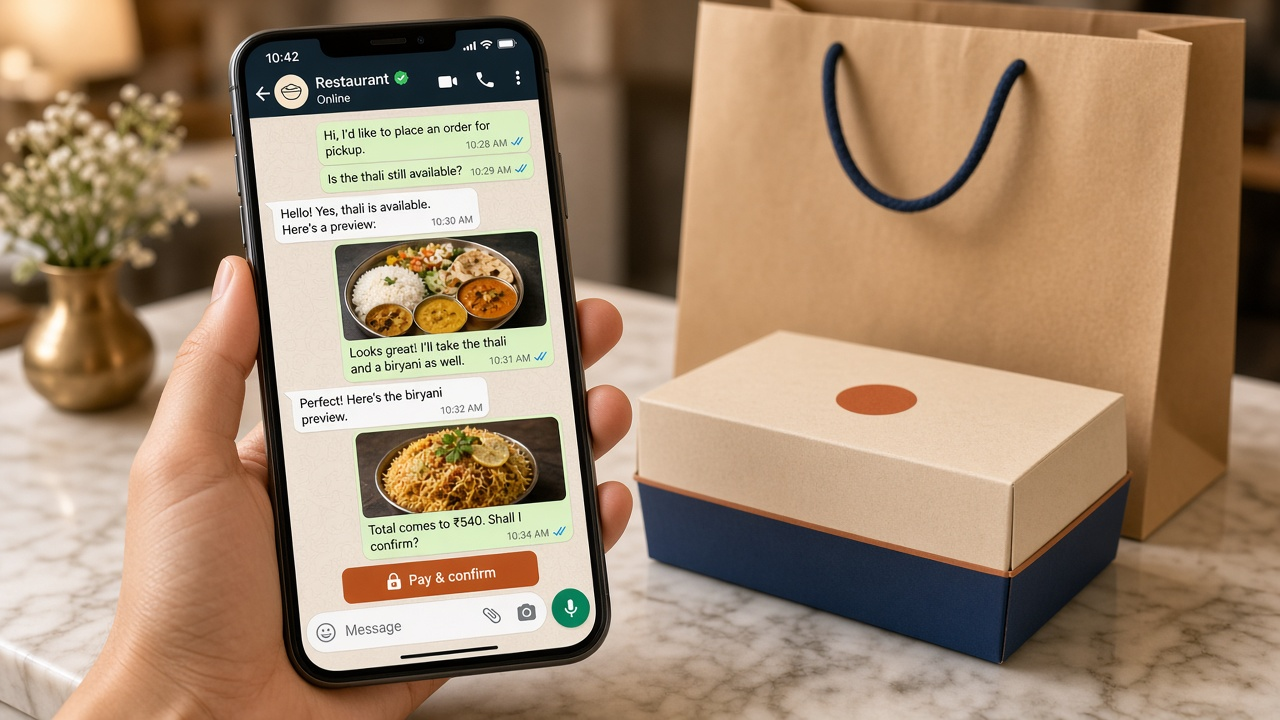
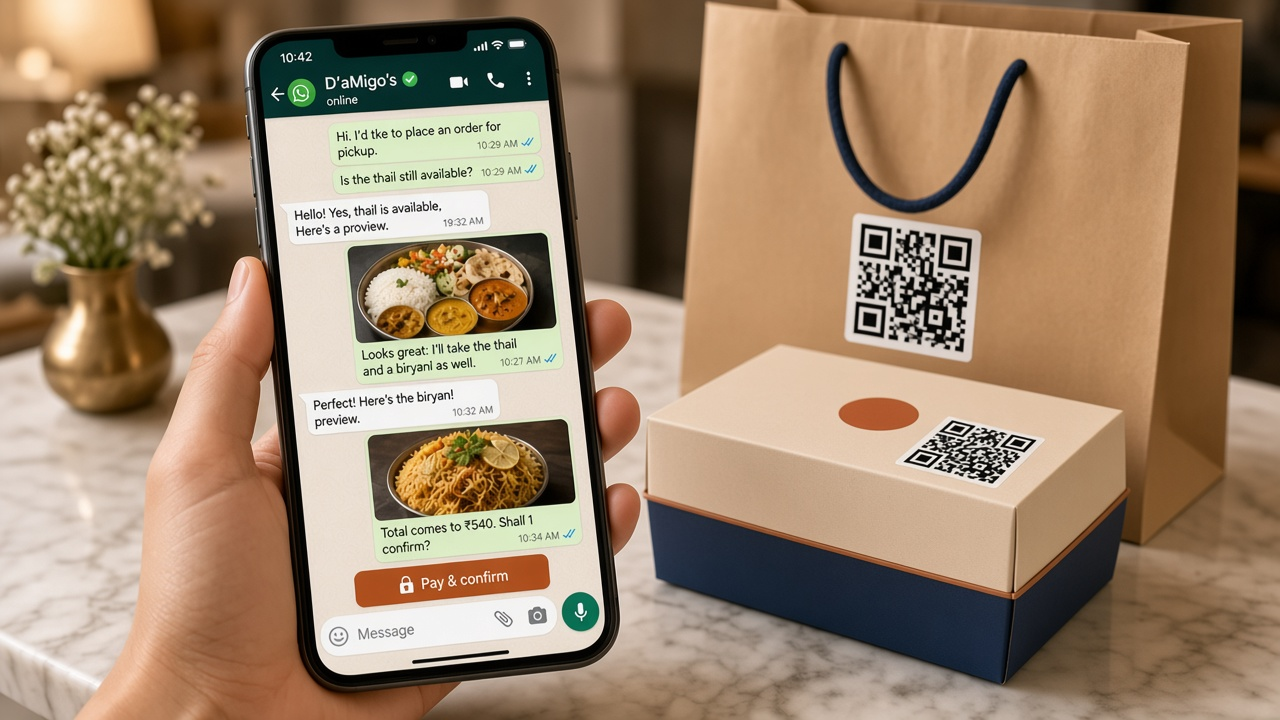
Style cursive headings, color punch lines, QR on hero pack, and D'aMigo's Hero agent in WhatsApp.

diff --git a/src/app/page.tsx b/src/app/page.tsx
@@ -43,18 +43,24 @@ export default function HomePage() {
       <section className="bg-hero-navy-surface text-surface-ivory overflow-hidden">
         <div className="page-wrap py-10 sm:py-14 md:py-16 grid md:grid-cols-2 gap-8 md:gap-10 items-center">
           <div className="reveal-target min-w-0">
-            <p className="inline-flex items-center gap-2 px-3 py-1 rounded-full bg-white/10 border border-white/15 text-accent-gold text-[11px] font-bold uppercase tracking-wider mb-5">
+            <p className="font-headline text-xl sm:text-2xl text-accent-gold mb-4">
               Pehle rishta. Phir reach. Phir 3x.
             </p>
-            <h1 className="font-headline text-[1.75rem] sm:text-4xl lg:text-[2.75rem] font-extrabold tracking-tight leading-[1.12]">
-              Cloud kitchen chala rahe ho?
+            <h1 className="font-headline text-[2.15rem] sm:text-5xl lg:text-6xl tracking-tight leading-[1.15]">
+              <span className="text-accent-gold">Cloud kitchen chala rahe ho?</span>
               <br />
               <span className="text-secondary-container">Takeaway sambhal rahe ho?</span>
             </h1>
-            <p className="mt-5 text-base sm:text-lg text-white/75 max-w-xl leading-relaxed">
-              Jo order nikal raha hai — us customer ka data tumhara hai? Aggregator number chhupa deta hai.
-              Hum data tumhe dete hain. Pehle wale orders se personalized rewards. Campaigns unke liye, auto.
-              Online appearance + orders — <span className="text-accent-gold font-bold">3x</span> ki taraf.
+            <p className="mt-5 text-base sm:text-lg max-w-xl leading-relaxed">
+              <span className="text-[#FFD89A] font-semibold">Jo order nikal raha hai — data tumhara hai?</span>
+              {" "}
+              <span className="text-white/70">Aggregator number chhupa deta hai. Hum data dete hain.</span>
+              {" "}
+              <span className="text-secondary-container font-semibold">Pehle orders se personalized rewards.</span>
+              {" "}
+              <span className="text-white/70">Campaigns auto.</span>
+              {" "}
+              <span className="text-accent-gold font-bold">Online + orders 3x.</span>
             </p>
             <div className="mt-8">
               <WaitlistButton />
@@ -75,8 +81,8 @@ export default function HomePage() {
           <div className="reveal-target min-w-0">
             <StoryImage
               src="/images/hero-whatsapp-order.jpg"
-              alt="WhatsApp food order on a phone next to a kraft takeout bag"
-              caption="WhatsApp pe order. Data kitchen ka. Rewards automatic."
+              alt="WhatsApp food order on a phone next to bag and box with QR stickers"
+              caption="QR on bag + box. Hero agent as D'aMigo's in WhatsApp."
               priority
             />
           </div>
@@ -90,25 +96,33 @@ export default function HomePage() {
             {
               q: "Cloud kitchen chala rahe ho?",
               a: "Are you running a cloud kitchen? Menu nikalta hai, guest ka number nahi milta.",
+              qClass: "text-secondary",
+              card: "bg-white border-border-warm",
             },
             {
               q: "Restaurant se takeaway?",
               a: "Handling takeaway from your restaurant? Parcel jaata hai — next order kisi aur app pe.",
+              qClass: "text-accent-gold",
+              card: "bg-[#fff5e1] border-[#F5E6CC]",
             },
             {
               q: "Customer data kiska hai?",
               a: "Do you own the people who are ordering? Hum dete hain phone, history, address — tumhara CRM.",
+              qClass: "text-primary",
+              card: "bg-[#f3ece3] border-border-warm",
             },
             {
               q: "Rewards + campaigns auto?",
               a: "Pehle orders se personalized rewards. Festival, payday, geo posters — koi intern nahi.",
+              qClass: "text-[#9a452f]",
+              card: "bg-[#fae8e1] border-[#f0d4c8]",
             },
           ].map((d) => (
             <article
               key={d.q}
-              className="reveal-target rounded-2xl border border-border-warm bg-white p-5 sm:p-6 shadow-[0_8px_28px_-8px_rgba(29,42,74,0.08)]"
+              className={`reveal-target rounded-2xl border p-5 sm:p-6 shadow-[0_8px_28px_-8px_rgba(29,42,74,0.08)] ${d.card}`}
             >
-              <p className="font-headline text-lg sm:text-xl font-bold text-primary">{d.q}</p>
+              <p className={`font-headline text-xl sm:text-2xl leading-snug ${d.qClass}`}>{d.q}</p>
               <p className="mt-2 text-sm text-text-muted leading-relaxed">{d.a}</p>
             </article>
           ))}
@@ -270,7 +284,7 @@ export default function HomePage() {
             </h2>
             <StepChips steps={["Say HI", "Pick cuisine", "Redeem rewards", "Pay in chat"]} />
             <p className="mt-4 text-text-muted">
-              Guided WhatsApp agent, in-chat webview, digital loyalty card, and a CRM that counts orders,
+              Hero agent in WhatsApp as D&apos;aMigo&apos;s, in-chat webview, digital loyalty card, and a CRM that counts orders,
               claims, re-orders, and dine-in redemptions.
             </p>
           </div>
@@ -315,7 +329,7 @@ export default function HomePage() {
           </div>
           <div className="mt-8 flex flex-col sm:flex-row flex-wrap gap-3 reveal-target">
             <Link href="/agent" className="cta-full inline-flex justify-center rounded-full bg-secondary text-white px-6 py-3 text-sm font-bold">
-              Full WhatsApp agent flow
+              Full Hero agent flow
             </Link>
             <Link href="/crm" className="cta-full inline-flex justify-center rounded-full border border-border-warm bg-white text-primary px-6 py-3 text-sm font-semibold">
               Guest CRM & loyalty calculator

diff --git a/src/app/agent/page.tsx b/src/app/agent/page.tsx
@@ -5,7 +5,7 @@ import { StoryImage } from "@/components/site/StoryImage";
 import { StepChips } from "@/components/site/StepChips";
 import { WaitlistButton } from "@/components/site/WaitlistButton";
 
-export const metadata: Metadata = { title: "WhatsApp Agent Flow" };
+export const metadata: Metadata = { title: "Hero Agent" };
 
 const STEPS = [
   {
@@ -44,13 +44,13 @@ export default function AgentPage() {
       <section className="bg-hero-navy-surface text-surface-ivory">
         <div className="page-wrap py-10 sm:py-14 md:py-16 grid md:grid-cols-2 gap-8 md:gap-10 items-center">
           <div className="min-w-0">
-            <p className="text-[11px] font-bold uppercase tracking-[0.14em] text-accent-gold mb-3">Hero agent flow</p>
-            <h1 className="font-headline text-[1.85rem] sm:text-4xl lg:text-5xl font-extrabold tracking-tight">
-              Order without leaving WhatsApp.
+            <p className="font-headline text-xl text-accent-gold mb-3">Hero agent</p>
+            <h1 className="font-headline text-[2.15rem] sm:text-5xl tracking-tight leading-[1.15]">
+              D&apos;aMigo&apos;s on WhatsApp.
             </h1>
             <p className="mt-5 text-base sm:text-lg text-white/75 max-w-xl">
-              The whole ordering brain lives inside WhatsApp: a guided agent, rich cuisine cards,
-              in-chat webview, and redeem-before-pay — for delivery and dine-in claims.
+              The Hero agent greets as D&apos;aMigo&apos;s — HI, cuisine cards, in-chat webview, redeem-before-pay.
+              Delivery and dine-in claims. Guest never leaves the thread.
             </p>
             <div className="mt-5">
               <StepChips steps={["Say HI", "Pick cuisine", "Redeem", "Pay"]} tone="dark" />
@@ -61,8 +61,8 @@ export default function AgentPage() {
           </div>
           <PhoneFrame
             src="/images/whatsapp-hi-agent.jpg"
-            alt="WhatsApp agent greeting with HI and option buttons"
-            caption="Step 1 — Guest says HI. Agent offers paths."
+            alt="Hero agent greeting as D'aMigo's with HI and option buttons"
+            caption="Hero agent — D'aMigo's greets. Guest says HI."
             className="[&_figcaption]:text-white/70"
           />
         </div>

diff --git a/src/app/layout.tsx b/src/app/layout.tsx
@@ -1,5 +1,5 @@
 import type { Metadata, Viewport } from "next";
-import { Inter, Plus_Jakarta_Sans, Great_Vibes } from "next/font/google";
+import { Inter, Plus_Jakarta_Sans, Great_Vibes, Pacifico } from "next/font/google";
 import "./globals.css";
 import { PageShell } from "@/components/site/PageShell";
 
@@ -14,6 +14,12 @@ const greatVibes = Great_Vibes({
   subsets: ["latin"],
   weight: "400",
   variable: "--font-great-vibes",
+  display: "swap",
+});
+const pacifico = Pacifico({
+  subsets: ["latin"],
+  weight: "400",
+  variable: "--font-pacifico",
   display: "swap",
 });
 
@@ -35,7 +41,7 @@ export const viewport: Viewport = {
 
 export default function RootLayout({ children }: { children: React.ReactNode }) {
   return (
-    <html lang="en" className={`${inter.variable} ${jakarta.variable} ${greatVibes.variable}`}>
+    <html lang="en" className={`${inter.variable} ${jakarta.variable} ${greatVibes.variable} ${pacifico.variable}`}>
       <head>
         <link
           href="https://fonts.googleapis.com/css2?family=Material+Symbols+Outlined:opsz,wght,FILL,GRAD@20..48,100..700,0..1,-50..200&display=swap"

diff --git a/src/app/campaigns/page.tsx b/src/app/campaigns/page.tsx
@@ -16,7 +16,7 @@ const AUTO = [
   "Pick trigger (festival / payday / weekend / geo / custom)",
   "AI builds poster + WhatsApp copy from your menu & brand",
   "Geo radius targets nearby phones (or blast your CRM list)",
-  "Guest taps → WhatsApp agent → order / redeem — tracked in CRM",
+  "Guest taps → Hero agent → order / redeem — tracked in CRM",
 ];
 
 export default function CampaignsPage() {
@@ -75,7 +75,7 @@ export default function CampaignsPage() {
               {[
                 "Brand logo + colors locked",
                 "Dish photos from your catalog",
-                "Offer line + CTA into WhatsApp agent",
+                "Offer line + CTA into Hero agent",
                 "A/B variants optional — still automatic",
               ].map((t) => (
                 <li key={t} className="flex gap-2">

diff --git a/src/app/globals.css b/src/app/globals.css
@@ -21,7 +21,7 @@
   --color-hero-navy-surface: #23345a;
   --color-error: #ba1a1a;
   --font-sans: var(--font-inter), ui-sans-serif, system-ui, sans-serif;
-  --font-headline: var(--font-jakarta), ui-sans-serif, system-ui, sans-serif;
+  --font-headline: var(--font-pacifico), Arial, cursive;
   --font-cursive: var(--font-great-vibes), Arial, cursive;
 }
 
@@ -56,7 +56,9 @@ main, section, article, figure { min-width: 0; }
   .page-wrap { padding-inline: max(2rem, env(safe-area-inset-left)) max(2rem, env(safe-area-inset-right)); }
 }
 h1, h2, h3, h4, .font-headline {
-  font-family: var(--font-jakarta), system-ui, sans-serif;
+  font-family: var(--font-pacifico), Arial, cursive;
+  font-weight: 400;
+  letter-spacing: 0.01em;
 }
 a { color: inherit; text-decoration: none; }
 img { max-width: 100%; height: auto; }

diff --git a/src/components/site/SiteFooter.tsx b/src/components/site/SiteFooter.tsx
@@ -16,7 +16,7 @@ export function SiteFooter() {
           <ul className="space-y-2 text-sm text-white/75">
             <li><Link href="/">The order flow</Link></li>
             <li><Link href="/packaging">Packaging QR</Link></li>
-            <li><Link href="/agent">WhatsApp agent</Link></li>
+            <li><Link href="/agent">Hero agent</Link></li>
             <li><Link href="/crm">Loyalty & digital card</Link></li>
             <li><Link href="/campaigns">Campaigns & AI posters</Link></li>
             <li><Link href="/delivery">Delivery partners</Link></li>

diff --git a/src/components/site/SiteHeader.tsx b/src/components/site/SiteHeader.tsx
@@ -10,7 +10,7 @@ import { cn } from "@/lib/cn";
 const LINKS = [
   { href: "/", label: "The flow", match: "/" },
   { href: "/packaging", label: "Packaging", match: "/packaging" },
-  { href: "/agent", label: "WA agent", match: "/agent" },
+  { href: "/agent", label: "Hero agent", match: "/agent" },
   { href: "/crm", label: "Loyalty", match: "/crm" },
   { href: "/campaigns", label: "Campaigns", match: "/campaigns" },
   { href: "/delivery", label: "Delivery", match: "/delivery" },

diff --git a/src/app/crm/page.tsx b/src/app/crm/page.tsx
@@ -31,7 +31,7 @@ export default function CrmPage() {
               who re-ordered, and who redeemed at the table.
             </p>
             <Link href="/agent" className="inline-flex mt-7 rounded-full bg-secondary text-white px-6 py-3 text-sm font-bold">
-              WhatsApp agent flow
+              Hero agent flow
             </Link>
           </div>
           <StoryImage
